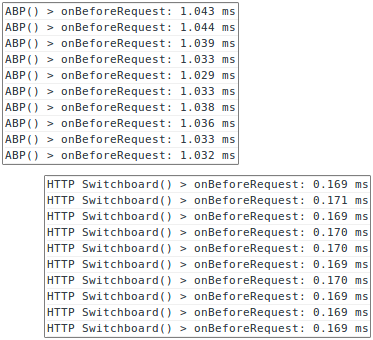
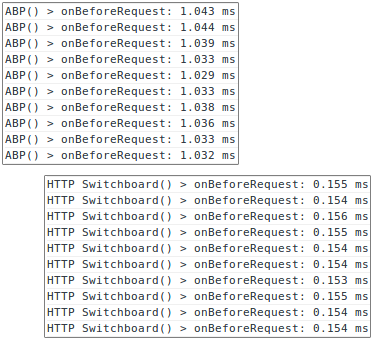
using same approach as in #259 for dict of requests

Changed region(s): [[0.8847, 0.6765, 0.9437, 0.8824], [0.8847, 0.5294, 0.9437, 0.6471], [0.8847, 0.9118, 0.9437, 0.9706]]

diff --git a/js/pagestats.js b/js/pagestats.js
@@ -34,8 +34,6 @@ var httpsburi = null;
 
 // Hidden vars
 
-var charCodes = 'ABCDEFGHIJKLMNOPQRSTUVWXYZabcdefghijklmnopqrstuvwxyz0123456789-_';
-
 var typeToCode = {
     'main_frame'    : 'a',
     'sub_frame'     : 'b',
@@ -69,7 +67,6 @@ var stringPacker = {
     codeJunkyard: [],
     mapStringToEntry: {},
     mapCodeToString: {},
-    base64Chars: 'ABCDEFGHIJKLMNOPQRSTUVWXYZabcdefghijklmnopqrstuvwxyz0123456789-_',
 
     Entry: function(code) {
         this.count = 0;
@@ -116,14 +113,11 @@ var stringPacker = {
         return this.mapCodeToString[packed] || '';
     },
 
-    base64: function(code) {
-        var s = '';
-        var base64Chars = this.base64Chars;
-        while ( code ) {
-            s += String.fromCharCode(base64Chars.charCodeAt(code & 63));
-            code >>>= 6;
+    stringify: function(code) {
+        if ( code <= 0xFFFF ) {
+            return String.fromCharCode(code);
         }
-        return s;
+        return String.fromCharCode(code >>> 16) + String.fromCharCode(code & 0xFFFF);
     },
 
     entryFromString: function(s) {
@@ -134,7 +128,7 @@ var stringPacker = {
         if ( !entry ) {
             entry = this.codeJunkyard.pop();
             if ( !entry ) {
-                entry = new this.Entry(this.base64(this.codeGenerator++));
+                entry = new this.Entry(this.stringify(this.codeGenerator++));
             } else {
                 // console.debug('stringPacker > recycling code "%s" (aka "%s")', entry.code, s);
                 entry.count = 0;
@@ -199,16 +193,16 @@ var PageRequestStats = function() {
 /******************************************************************************/
 
 // Request key:
-// index: 01234567...
-//        HHHHHHTN...
-//        ^     ^^
-//        |     ||
-//        |     |+--- short string code for hostname (dict-based)
-//        |     +--- single char code for type of request
-//        +--- FNV32a hash of whole URI (irreversible)
+// index: 0123
+//        THHN
+//        ^^ ^
+//        || |
+//        || +--- short string code for hostname (dict-based)
+//        |+--- FNV32a hash of whole URI (irreversible)
+//        +--- single char code for type of request
 
 var makeRequestKey = function(uri, reqType) {
-    // Ref: Given a URL, returns a unique 7-character long hash string
+    // Ref: Given a URL, returns a unique 4-character long hash string
     // Based on: FNV32a
     // http://www.isthe.com/chongo/tech/comp/fnv/index.html#FNV-reference-source
     // The rest is custom, suited for HTTPSB.
@@ -220,31 +214,20 @@ var makeRequestKey = function(uri, reqType) {
     }
     hint = hint >>> 0;
 
-    // convert 32-bit hash to str
-    var hstr = '';
-    i = 6;
-    while ( i-- ) {
-        hstr += charCodes.charAt(hint & 0x3F);
-        hint >>= 6;
-    }
-
-    // append code for type
-    hstr += typeToCode[reqType] || 'z';
-
-    // append code for hostname
-    hstr += stringPacker.pack(httpsburi.hostnameFromURI(uri));
-
-    return hstr;
+    key  = typeToCode[reqType] || 'z';
+    key += String.fromCharCode(hint >>> 16) + String.fromCharCode(hint & 0xFFFF);
+    key += stringPacker.pack(httpsburi.hostnameFromURI(uri));
+    return key;
 };
 
 /******************************************************************************/
 
 var rememberRequestKey = function(reqKey) {
-    stringPacker.remember(reqKey.slice(7));
+    stringPacker.remember(reqKey.slice(3));
 };
 
 var forgetRequestKey = function(reqKey) {
-    stringPacker.forget(reqKey.slice(7));
+    stringPacker.forget(reqKey.slice(3));
 };
 
 /******************************************************************************/
@@ -252,14 +235,14 @@ var forgetRequestKey = function(reqKey) {
 // Exported
 
 var hostnameFromRequestKey = function(reqKey) {
-    return stringPacker.unpack(reqKey.slice(7));
+    return stringPacker.unpack(reqKey.slice(3));
 };
 
 pageRequestStats.hostnameFromRequestKey = hostnameFromRequestKey;
 PageRequestStats.prototype.hostnameFromRequestKey = hostnameFromRequestKey;
 
 var typeFromRequestKey = function(reqKey) {
-    return codeToType[reqKey.charAt(6)];
+    return codeToType[reqKey.charAt(0)];
 };
 
 pageRequestStats.typeFromRequestKey = typeFromRequestKey;
@@ -381,7 +364,7 @@ PageRequestStats.prototype.dispose = function() {
     var requests = this.requests;
     for ( var reqKey in requests ) {
         if ( requests.hasOwnProperty(reqKey) ) {
-            stringPacker.forget(reqKey.slice(7));
+            stringPacker.forget(reqKey.slice(3));
             delete requests[reqKey];
         }
     }
